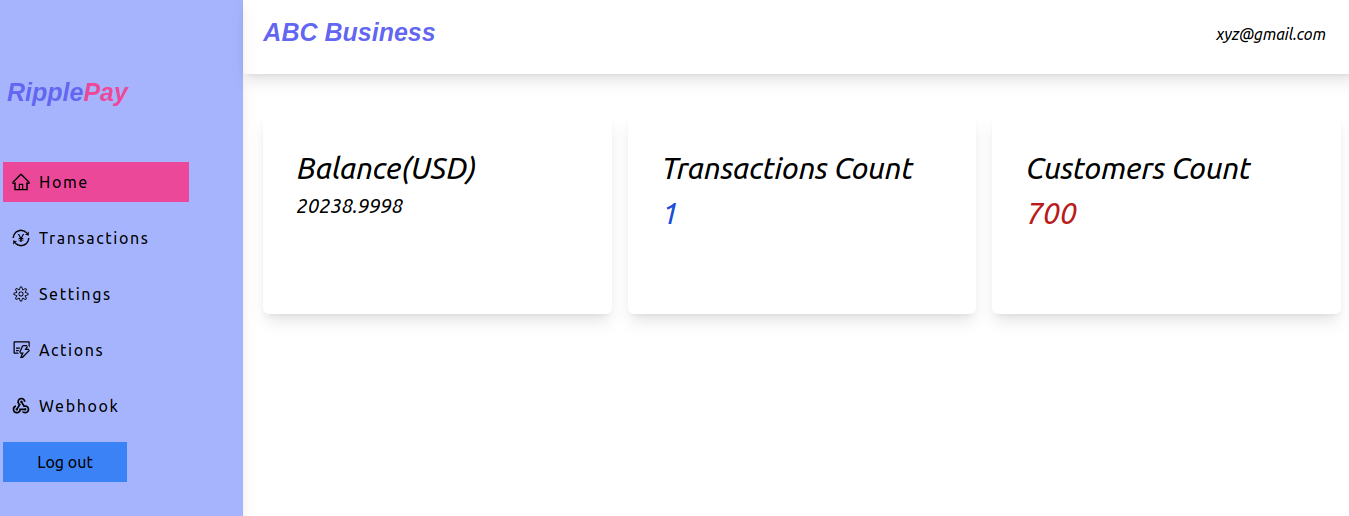
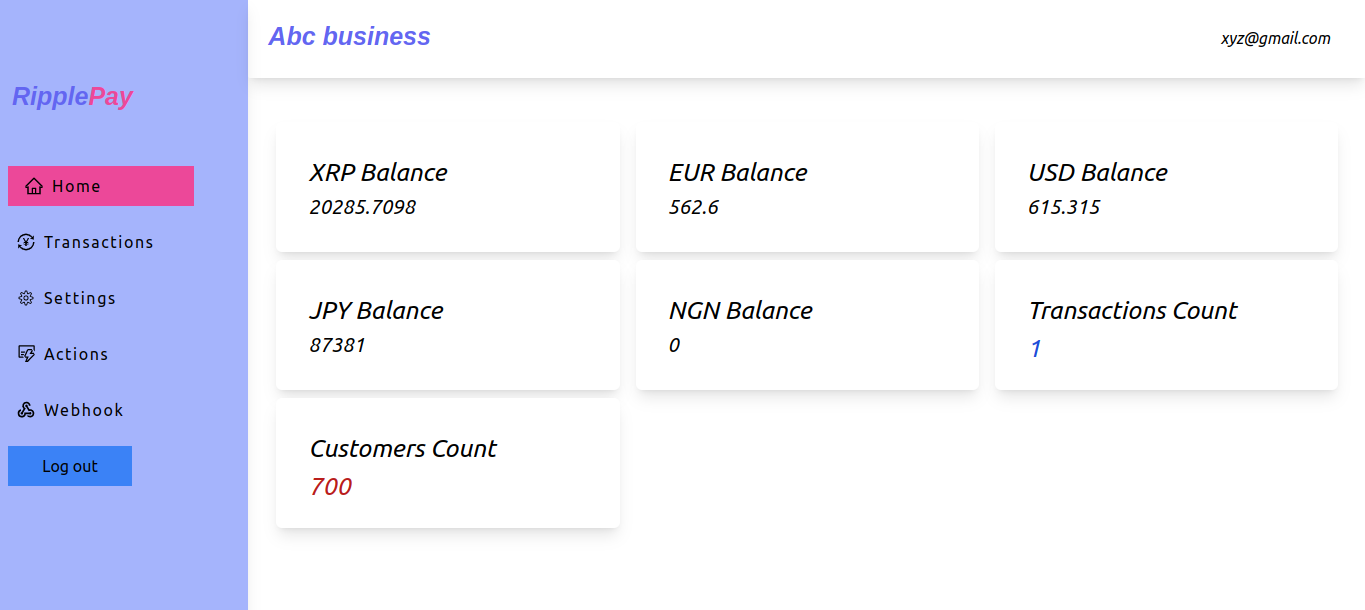
swap modal and naira balacnes

diff --git a/src/Components/Dashboard/UsersDashBoard.jsx b/src/Components/Dashboard/UsersDashBoard.jsx
@@ -92,12 +92,16 @@ const UsersDashBoard = () => {
                         <div className='px-5'>
                             <h1 className='text-indigo-500 italic font-bold text-[25px] font-spacegrotesk'>
                                 {authData?.data?.business_name}
+                              
                             </h1>
 
                         </div>
                         <div className='flex gap-x-4 px-4'>
 
-                            <h4 className='px-5 py-2 inline  text-black rounded-sm italic'>{authData?.data?.email}</h4>
+                            <h4 className='px-5 py-2 inline  text-black rounded-sm italic'>
+                                {authData?.data?.email}
+                              
+                                </h4>
                         </div>
                     </nav>
 

diff --git a/src/Components/Sections/UsersHome.jsx b/src/Components/Sections/UsersHome.jsx
@@ -16,7 +16,7 @@ const UsersHome = () => {
             <div className='grid grid-cols-3 mt-10 mx-5'>
                 <div className='rounded-md bg-white shadow-lg mx-2 my-1 h-[130px] p-8'>
                     <h1 className='italic text-[25px]'>XRP Balance</h1>
-                    <h1 className='italic text-[20px]'>{balance_customer_count?.balance == NaN ? "" :(balance_customer_count?.balance / 1000000).toFixed(4)} </h1>
+                    <h1 className='italic text-[20px]'>{!balance_customer_count?.balance ? "" :(balance_customer_count?.balance / 1000000).toFixed(4)} </h1>
 
                 </div>
                 <div className='rounded-md bg-white shadow-lg mx-2 my-1 h-[130px] p-8'>

diff --git a/src/Components/LandingPage/LandingPage.jsx b/src/Components/LandingPage/LandingPage.jsx
@@ -3,8 +3,7 @@ import { Link } from 'react-router-dom'
 import Navbar from '../navbar/Navbar'
 import home from '../../assets/home.png'
 import withdraw from '../../assets/withdraw.png'
-import withdraw2 from '../../assets/withdraw2.png'
-
+import withdraw2 from '../../assets/actions.jpg'
 const LandingPage = () => {
     return (
         <div className='w-full h-screen px-5 py-10'>

diff --git a/src/services/actions/authActions.js b/src/services/actions/authActions.js
@@ -40,7 +40,7 @@ export const loginAction = createAsyncThunk(
 
                 navigate('/user-dashboard', { replace: true })
 
-                console.log(data)
+                
             }
 
             return data
